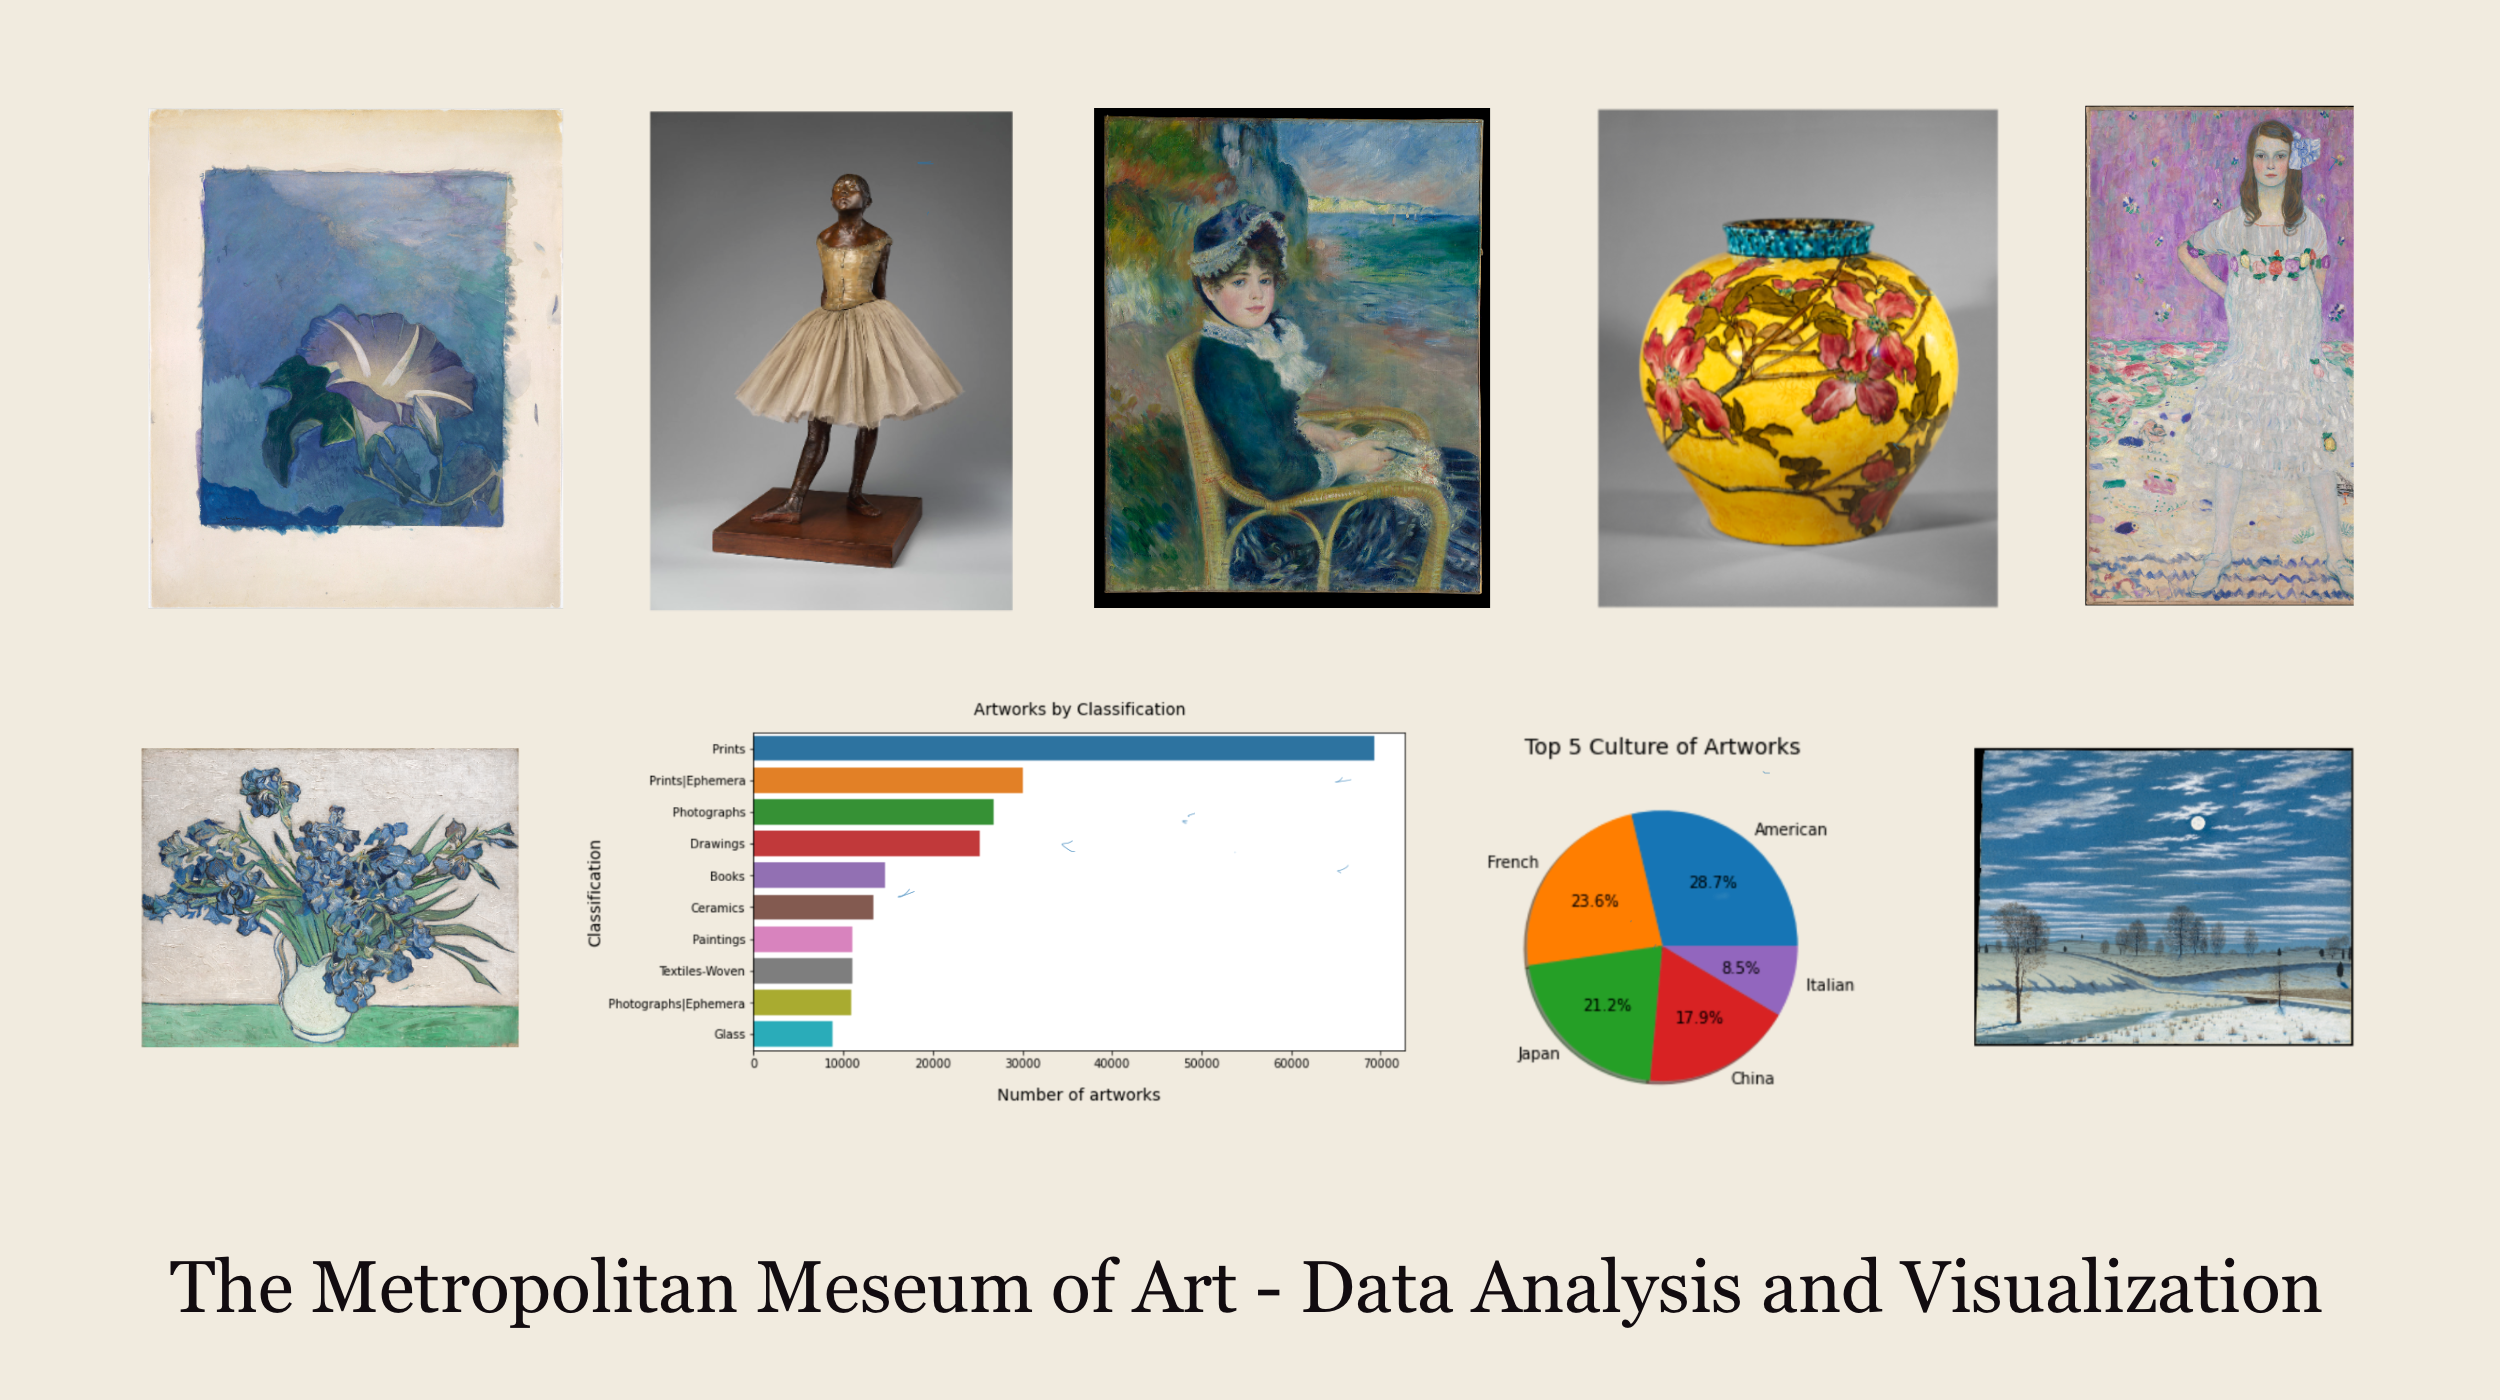
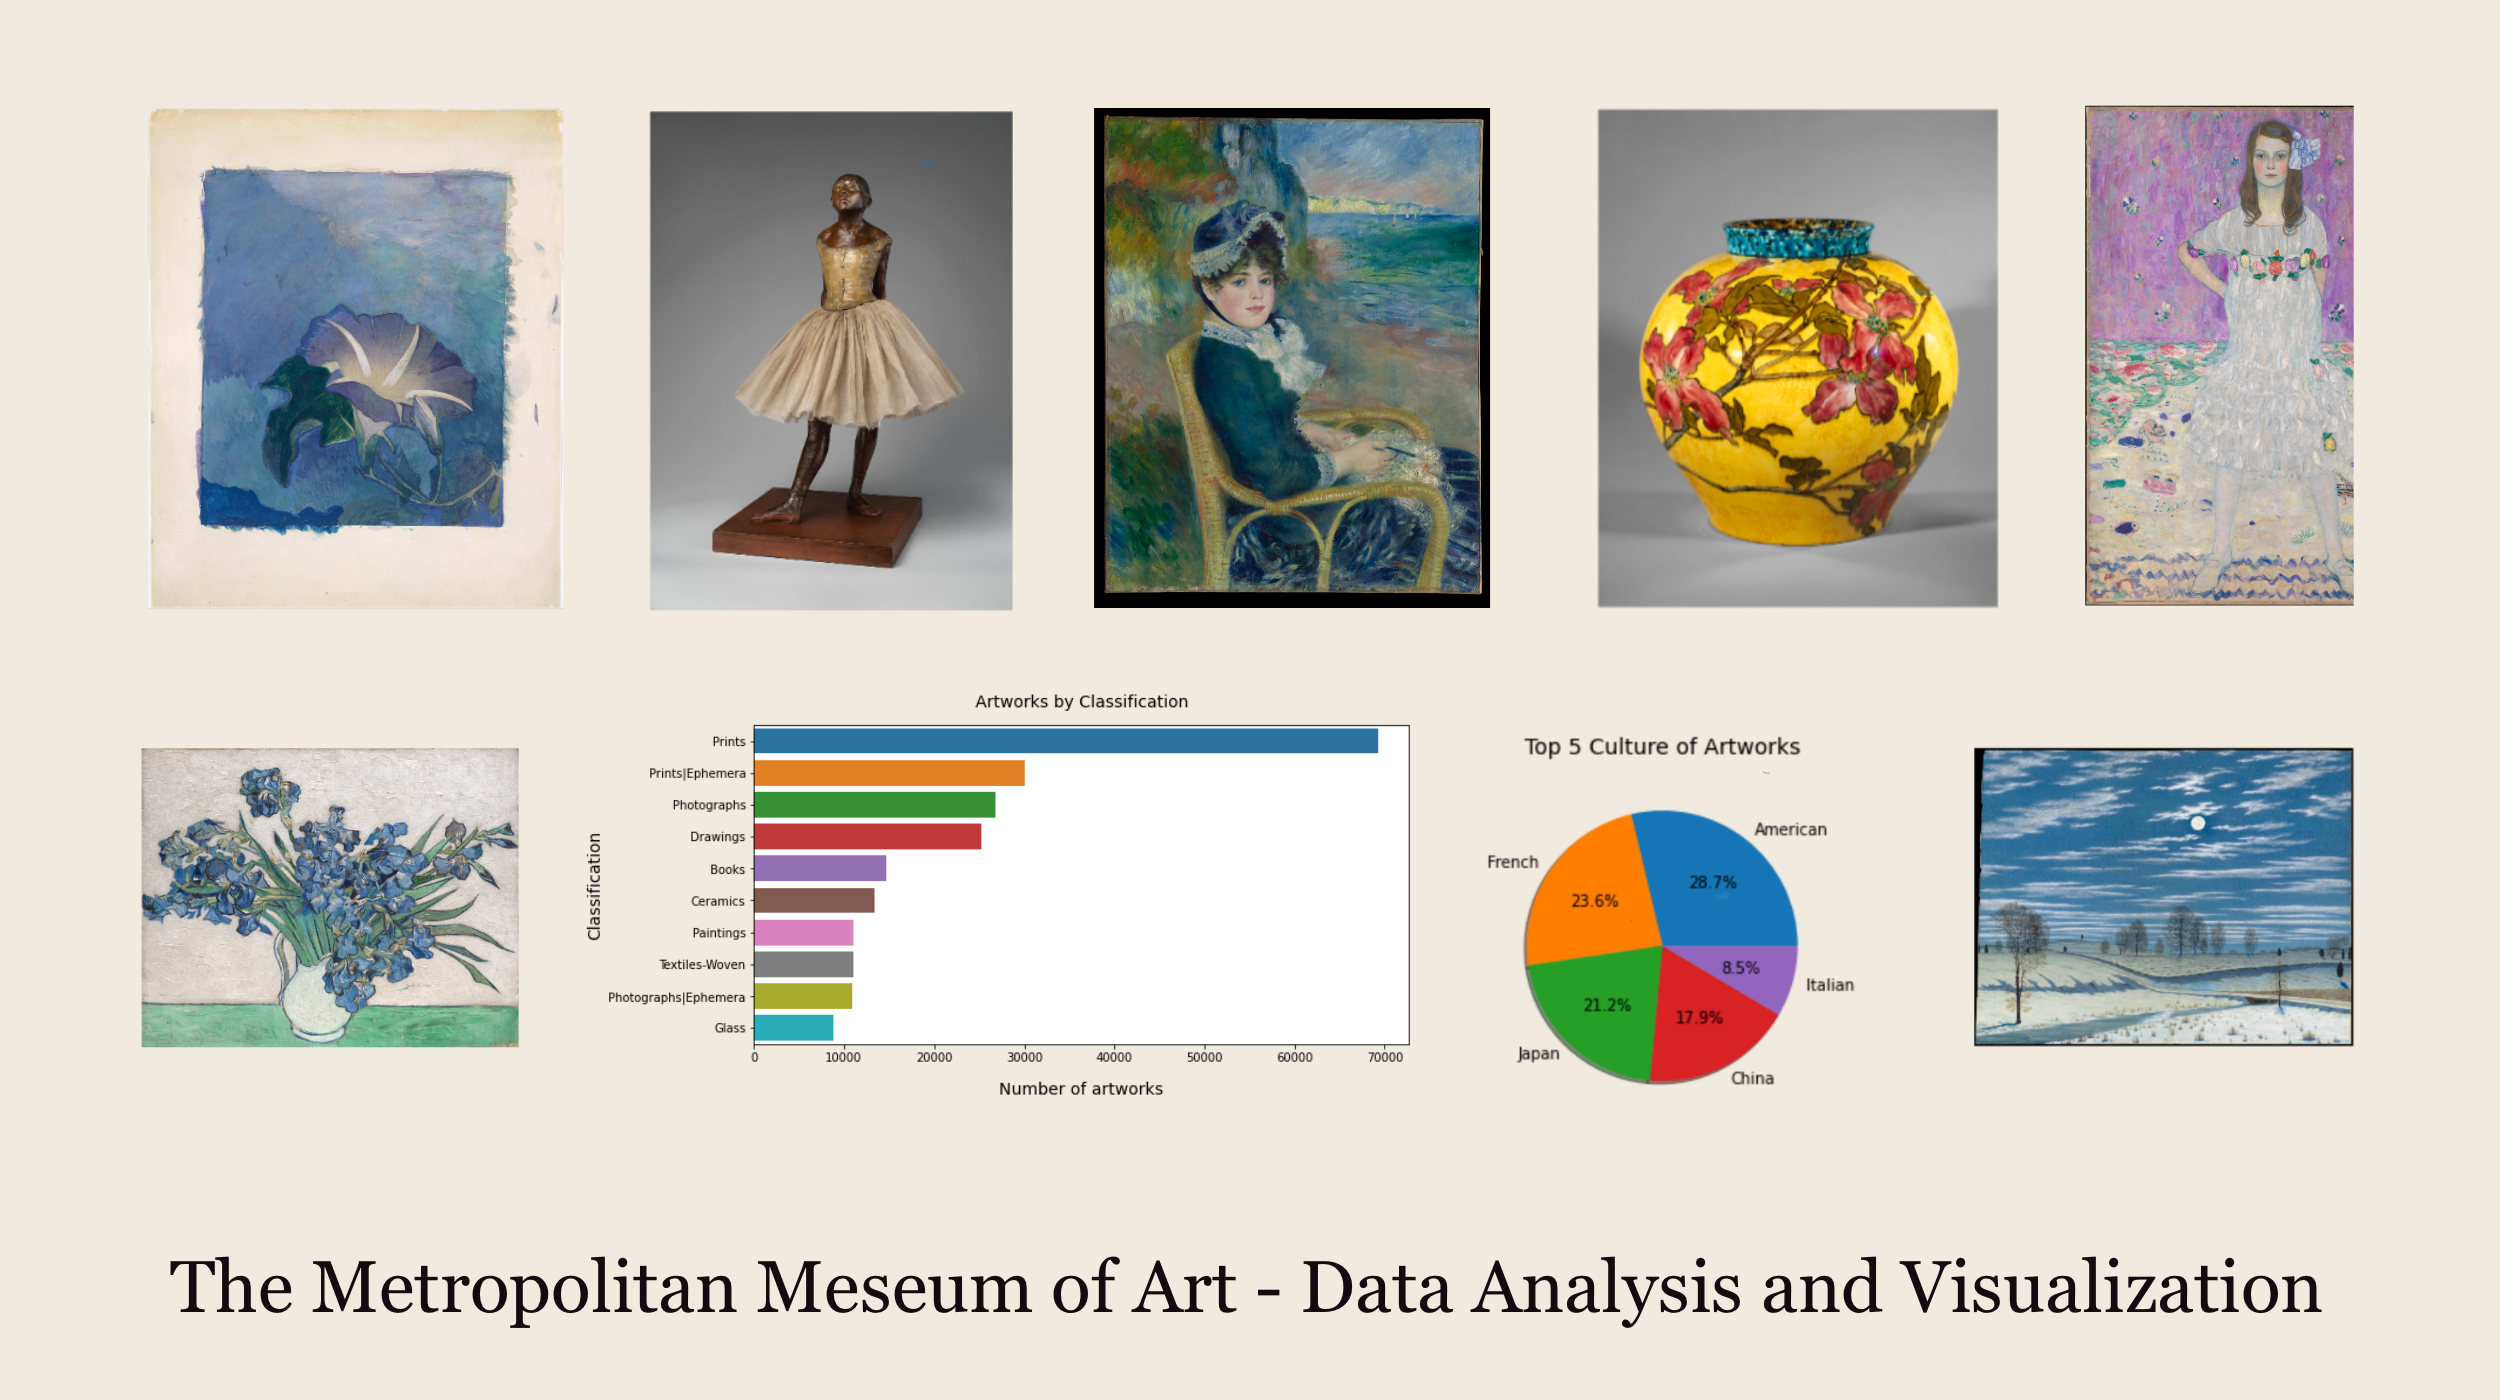
Updated image and width

Changed region(s): [[0.2496, 0.4914, 0.5616, 0.7986], [0.2184, 0.6143, 0.2496, 0.6757]]

diff --git a/README.md b/README.md
@@ -1,7 +1,7 @@
 # The Metropolitan Museum of Art - Data Analysis and Visualization
 
 <p align="center">
-    <img src="met_image.png" alt="MET Data Analysis and Visualization">
+    <img src="met_image.png" alt="MET Data Analysis and Visualization" width=75%>
 </p>
 
 This notebook contains data analysis of the artists and artworks of the Metropolitan Museum of Art. 
